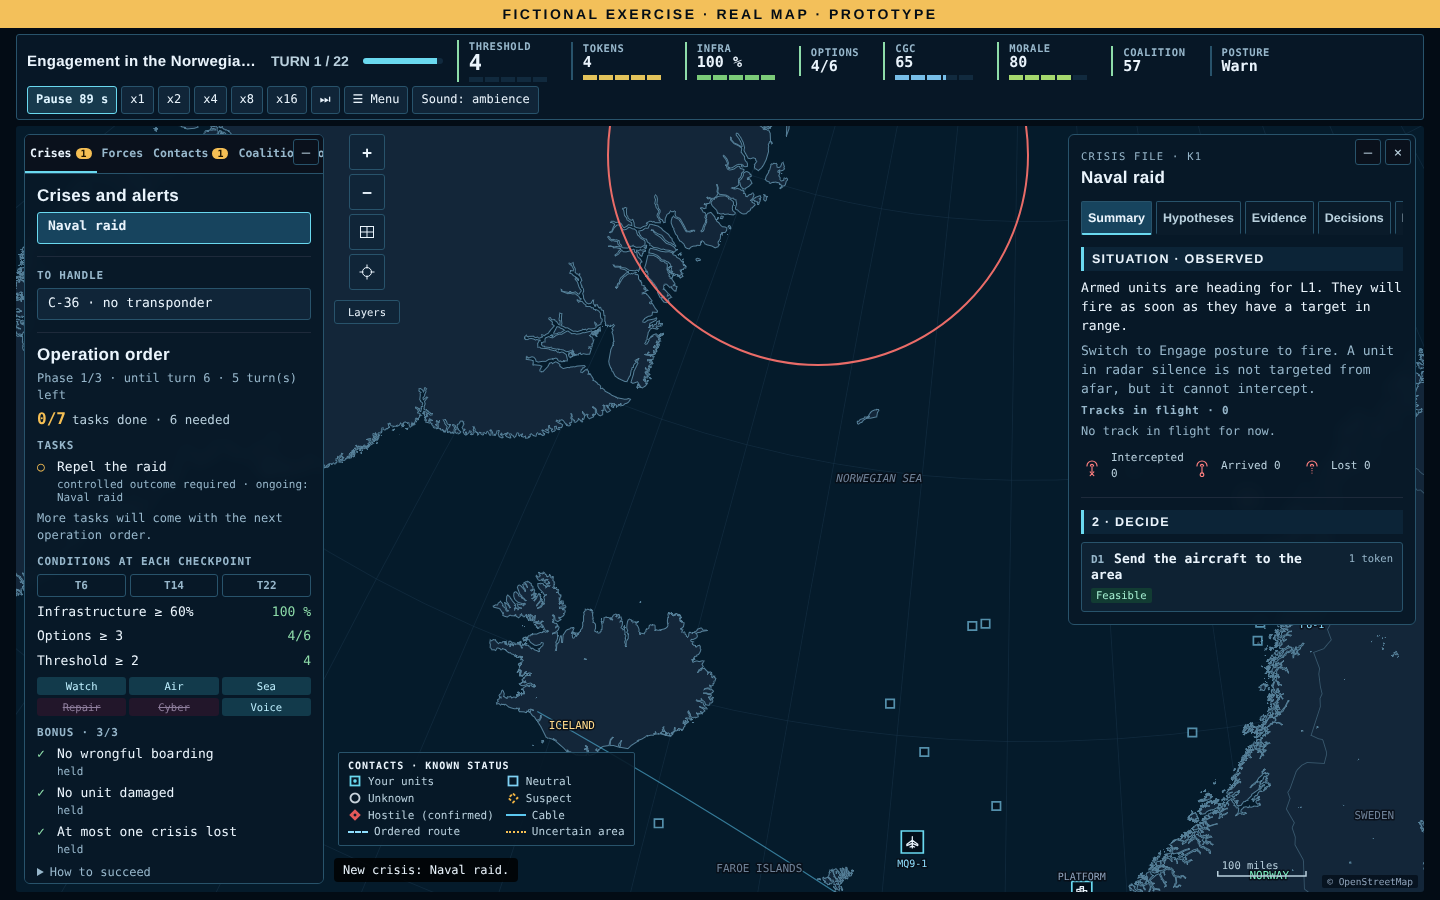
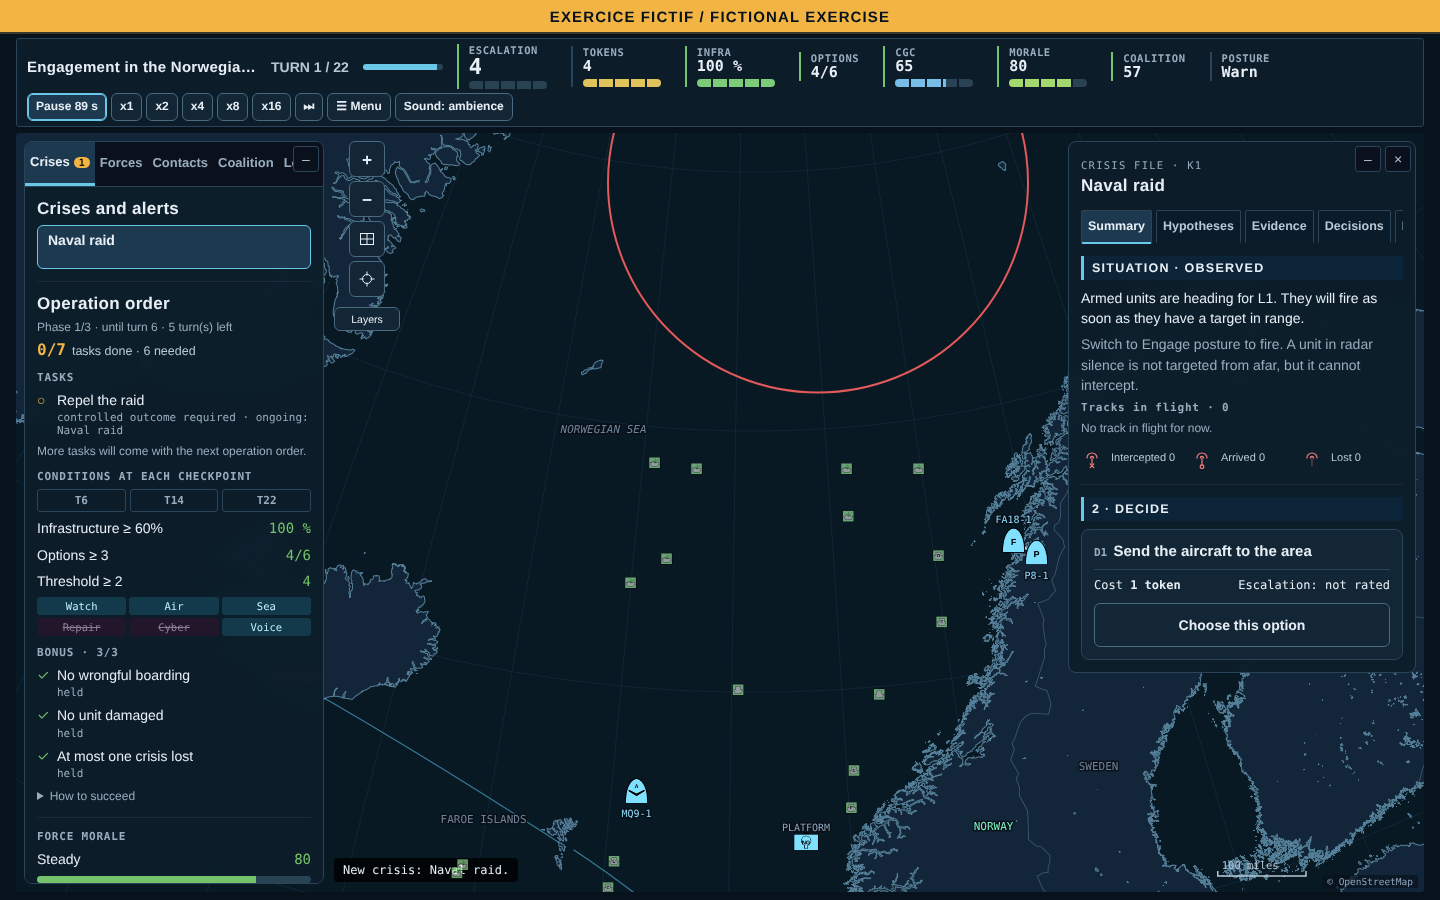
Interface FOGLINE V4 : nom unique, jetons du kit, bandeau bilingue fixe, cartes de décision, confirmation des options à risque
- Nom FOGLINE partout, logo du kit à l'accueil, deux polices, focus #FFF2C2
- Bandeau « EXERCICE FICTIF / FICTIONAL EXERCISE » de 32 px au-dessus de toutes les fenêtres, accueil compris
- Cartes de décision : coût, escalade estimée, motif d'indisponibilité, bouton de 44 px ; confirmation avant une option à risque élevé
- APP-6 par défaut ; pistes de missile indépendantes du réglage des symboles
- Moteur inchangé : 2 128 parties identiques à la version 38
- Test uiv4.js ; CLAUDE.md 5.32 et 5.33 ; README et captures

Claude-Session: https://claude.ai/code/session_01XsJ7mRwaZgthoQnSZT4r1h

diff --git a/CLAUDE.md b/CLAUDE.md
@@ -6,7 +6,7 @@ Ce fichier décrit le projet, ses règles et sa méthode de travail. Lis-le enti
 
 **Nom :** FOGLINE dans toutes les langues depuis le 13 novembre 2026 (décision de Naully, kit d'interface V4, voir 5.33). SEUIL est l'ancien titre français : il ne doit plus apparaître à l'écran ni dans les nouveaux documents. Les clés de stockage `seuil.*` et le fichier `seuil-prototype.html` gardent leur nom, pour ne pas effacer les réglages des joueurs ni casser la publication. La disponibilité juridique du nom n'a pas été vérifiée.
 
-SEUIL est un serious game de stratégie en temps réel, inspiré de DEFCON et de Jane's Fleet Command. Le joueur commande des forces dans un scénario fictif sur une carte réelle de la mer de Norvège, de la mer du Nord et de l'Atlantique Nord.
+FOGLINE est un serious game de stratégie en temps réel, inspiré de DEFCON et de Jane's Fleet Command. Le joueur commande des forces dans un scénario fictif sur une carte réelle de la mer de Norvège, de la mer du Nord et de l'Atlantique Nord.
 
 Le jeu entraîne à décider sous incertitude. Il oblige à estimer avant d'agir, à conserver sa liberté d'action et à maîtriser l'escalade. Il s'appuie sur le centre de gravité cognitif (CGC) de l'article de Naully Nicolas, « guerre cognitive », paru dans la Revue diplomatique n° 28 de l'IEGA.
 
@@ -951,7 +951,7 @@ International, niveau 3, Atlantique Nord. Un convoi va de Reykjavik à Aberdeen 
 
 - La référence se rapproche de la cible de 50 à 70 %. **Le tir sans vérifier monte de 23 à 35 % :** à surveiller (défaut 52). Les deux effets viennent des vitesses et de l'inertie, sans qu'ils aient été isolés.
 - Omniscient à 0 % sur `i6` en 2 parties, puis 6 réussites sur 6 (`scr.js i6 6`) : effet d'échantillon.
-- Invariants : 608 parties finies et reproductibles. Un défaut signalé 2 fois sur `i14` (unité encore liée à une crise close pendant un pas) : corrigé, non remesuré sur 608 parties avant la suite de l'interface V4.
+- Invariants : 608 parties finies et reproductibles. Un signalement, 2 relevés sur `i14` : une unité reste liée pendant un pas à une crise qui vient de se clore, puis le lien est retiré au pas suivant. Sans effet sur le jeu ; le nettoyage ajouté en début de pas ne supprime pas ce relevé, qui tient à l'ordre des opérations dans `step`.
 - Règles réalistes (`realcmp.js`, 75 scénarios × 1 partie) : référence 750 et 76 % en standard, 754 et 77 % en réaliste ; omniscient 793 et 96 %, puis 797 et 96 %. Par partie en réaliste : 0,2 repli, 2,2 retours pour carburant, aucun radar rallumé (les scripts ne jouent pas en silence). **Les scripts ne ressentent presque pas ces règles.** Omniscient à 0 % en réaliste sur `i8`, `i17` et `d3`, sur une seule partie chacun.
 - `asw`, 6 parties : référence 733 et 67 % en standard, 766 et 83 % en réaliste ; omniscient 846 et 100 % dans les deux cas ; aucun ordre 0 %, puis 17 %.
 - 53 200 clics au hasard sans blocage ni texte manquant. `uiv38.js` et les 24 autres tests d'interface sans erreur. Rythme : 5,0 crises par partie, première crise à 64 s, 73 % du temps sans crise ouverte. Conseil seul : 742 et 80 % au niveau Simple, 708 et 76 % au niveau Complet.
@@ -1109,7 +1109,7 @@ Ces commandes sont longues : lance-les en arrière-plan quand l'environnement le
 | `monkey` | Clics au hasard dans les deux langues | Aucune erreur page, aucun texte manquant, bilan toujours atteint |
 | `dq` | Bilan « Décision ou chance ? » sur cinq stratégies | Réussite annoncée proche de l'observée, tirages recopiés exacts, le hasard fait plus de choix fragiles que la référence |
 
-**Résultats du 13 novembre 2026, version 38 (collisions, inertie, règles réalistes, chasse sous-marine), niveau Complet, 2 parties par scénario :** omniscient 785 et 90 %, référence 751 et 76 %, sans aucun tir 744 et 74 %, tir sans vérifier 489 et 35 % avec 44 % de seuil 1, saturation 298 et 4 %, aucune force 196 et 0 %. 608 parties finies et reproductibles ; 53 200 clics au hasard sans blocage ; 25 tests d'interface sans erreur. Détail : section 5.32. __V4RES__
+**Résultats du 13 novembre 2026, version 38 (collisions, inertie, règles réalistes, chasse sous-marine), niveau Complet, 2 parties par scénario :** omniscient 785 et 90 %, référence 751 et 76 %, sans aucun tir 744 et 74 %, tir sans vérifier 489 et 35 % avec 44 % de seuil 1, saturation 298 et 4 %, aucune force 196 et 0 %. 608 parties finies et reproductibles ; 53 200 clics au hasard sans blocage ; 25 tests d'interface sans erreur. Détail : section 5.32. **Interface V4, même jour :** les 2 128 parties du volet `exploit` donnent le même score et la même issue qu'en version 38, partie par partie ; 608 parties finies et reproductibles ; 53 200 clics au hasard sans blocage ni texte manquant ; `uiv4.js` et les 25 autres tests d'interface sans erreur. Fusionnée dans `main` et publiée sur le prototype le 13 novembre 2026, à la demande de Naully.
 
 **Résultats du 13 novembre 2026, version 37 (tour par tour, semi-réel, relief, vue 3D) :** identiques à la version 36, partie par partie, sur les 2 100 parties du volet `exploit` ; 600 parties finies et reproductibles ; 52 315 clics au hasard sans blocage ni texte manquant ; `uiv37` et les 23 autres tests d'interface sans erreur. Parties complètes au tour par tour et en semi-réel : section 5.31.
 
